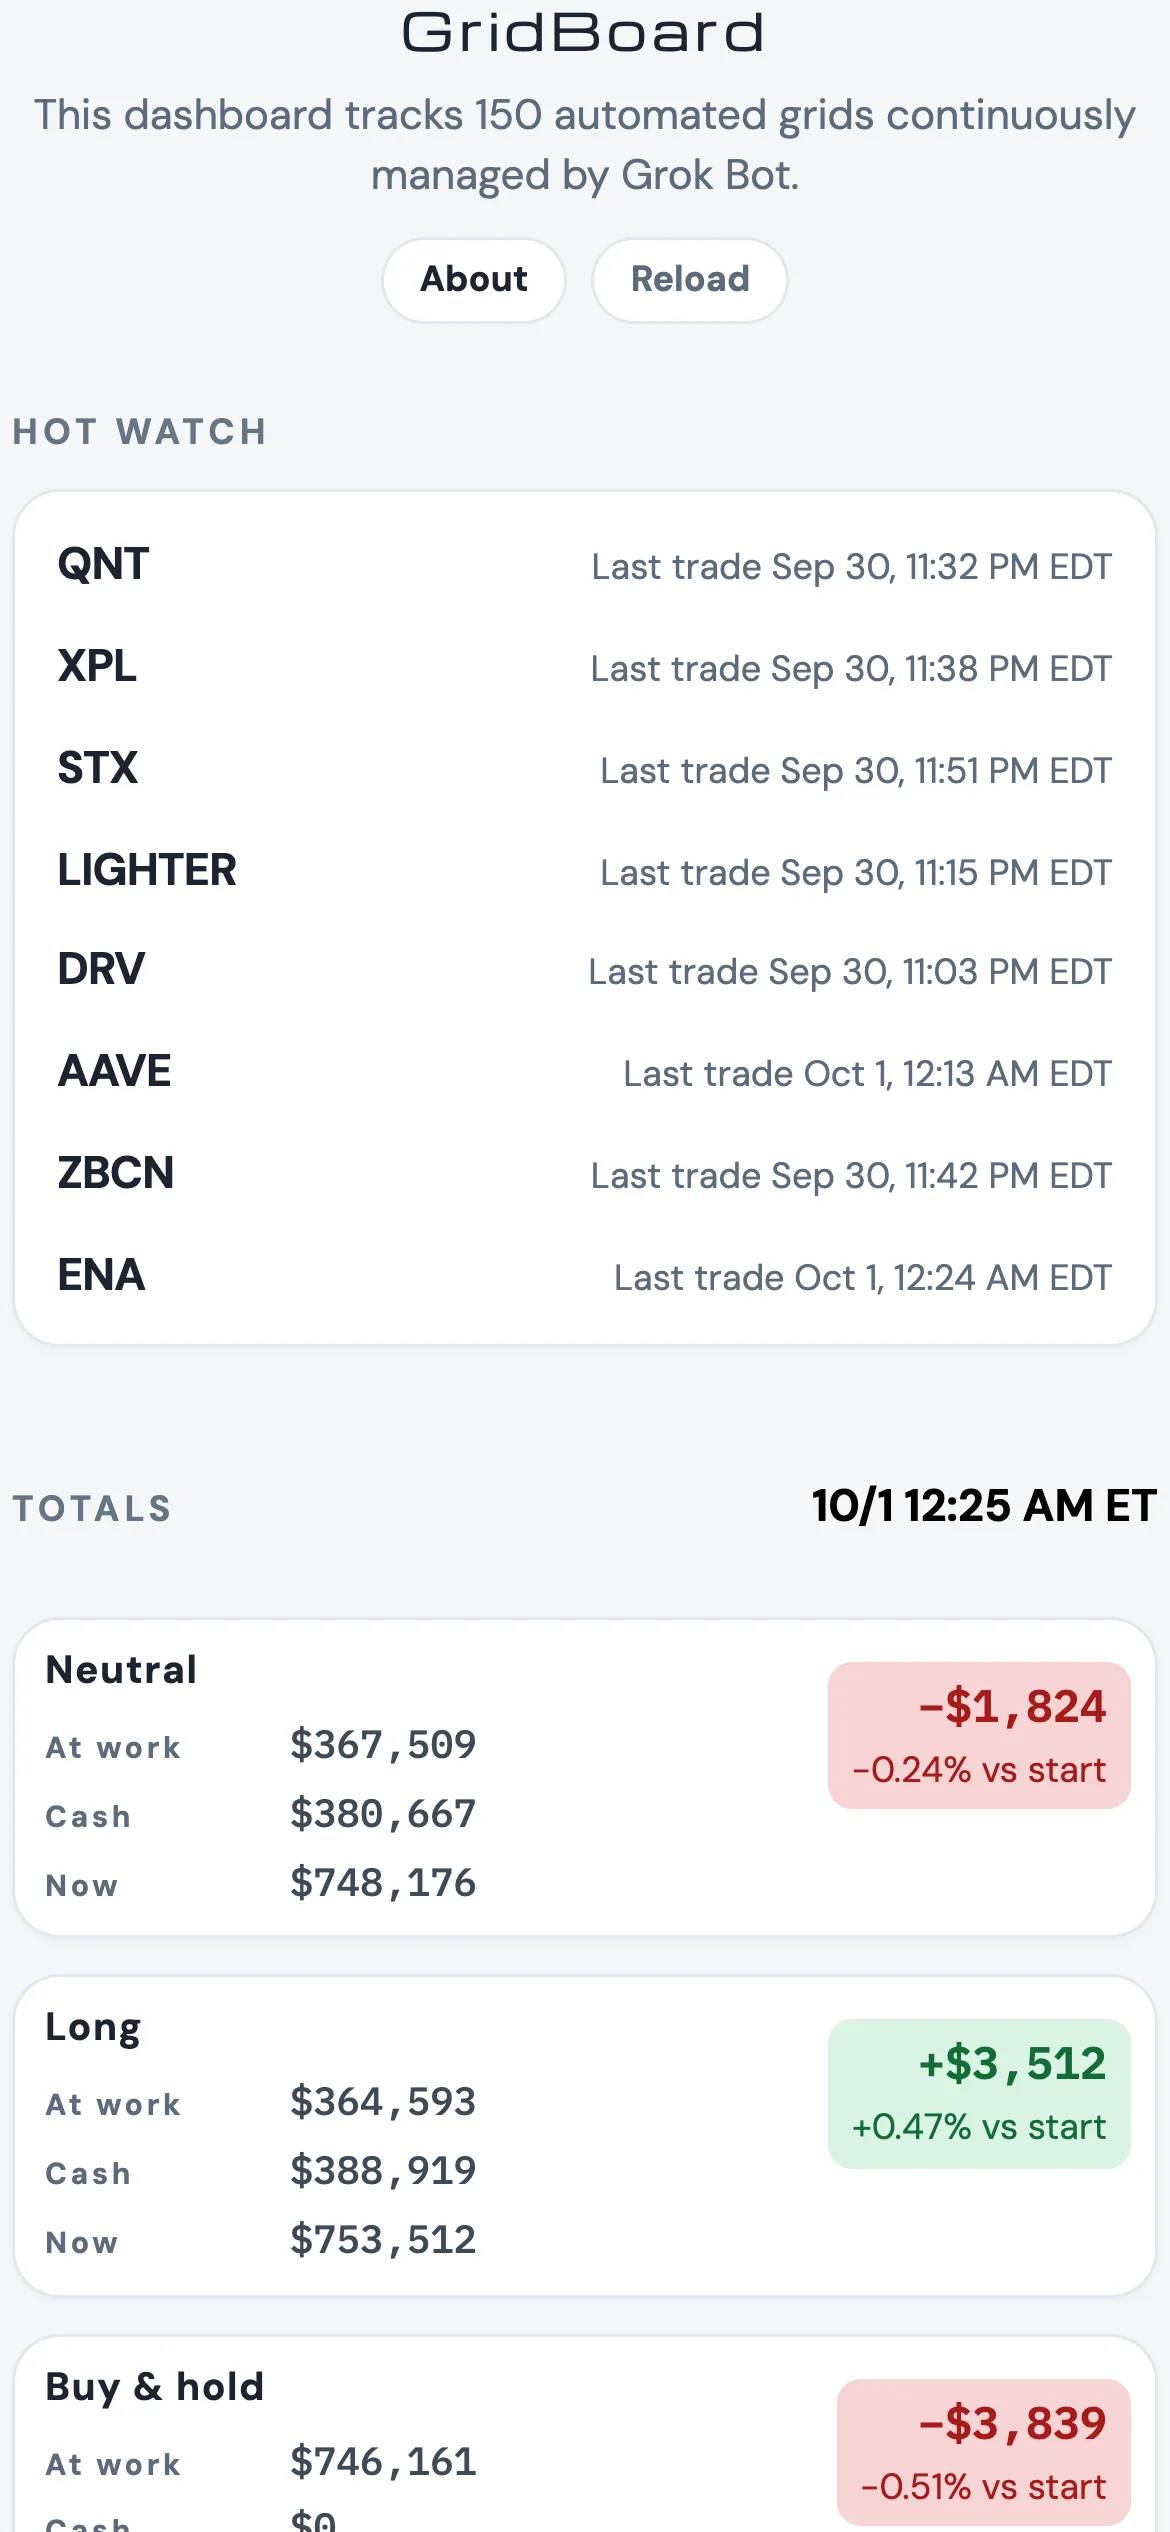
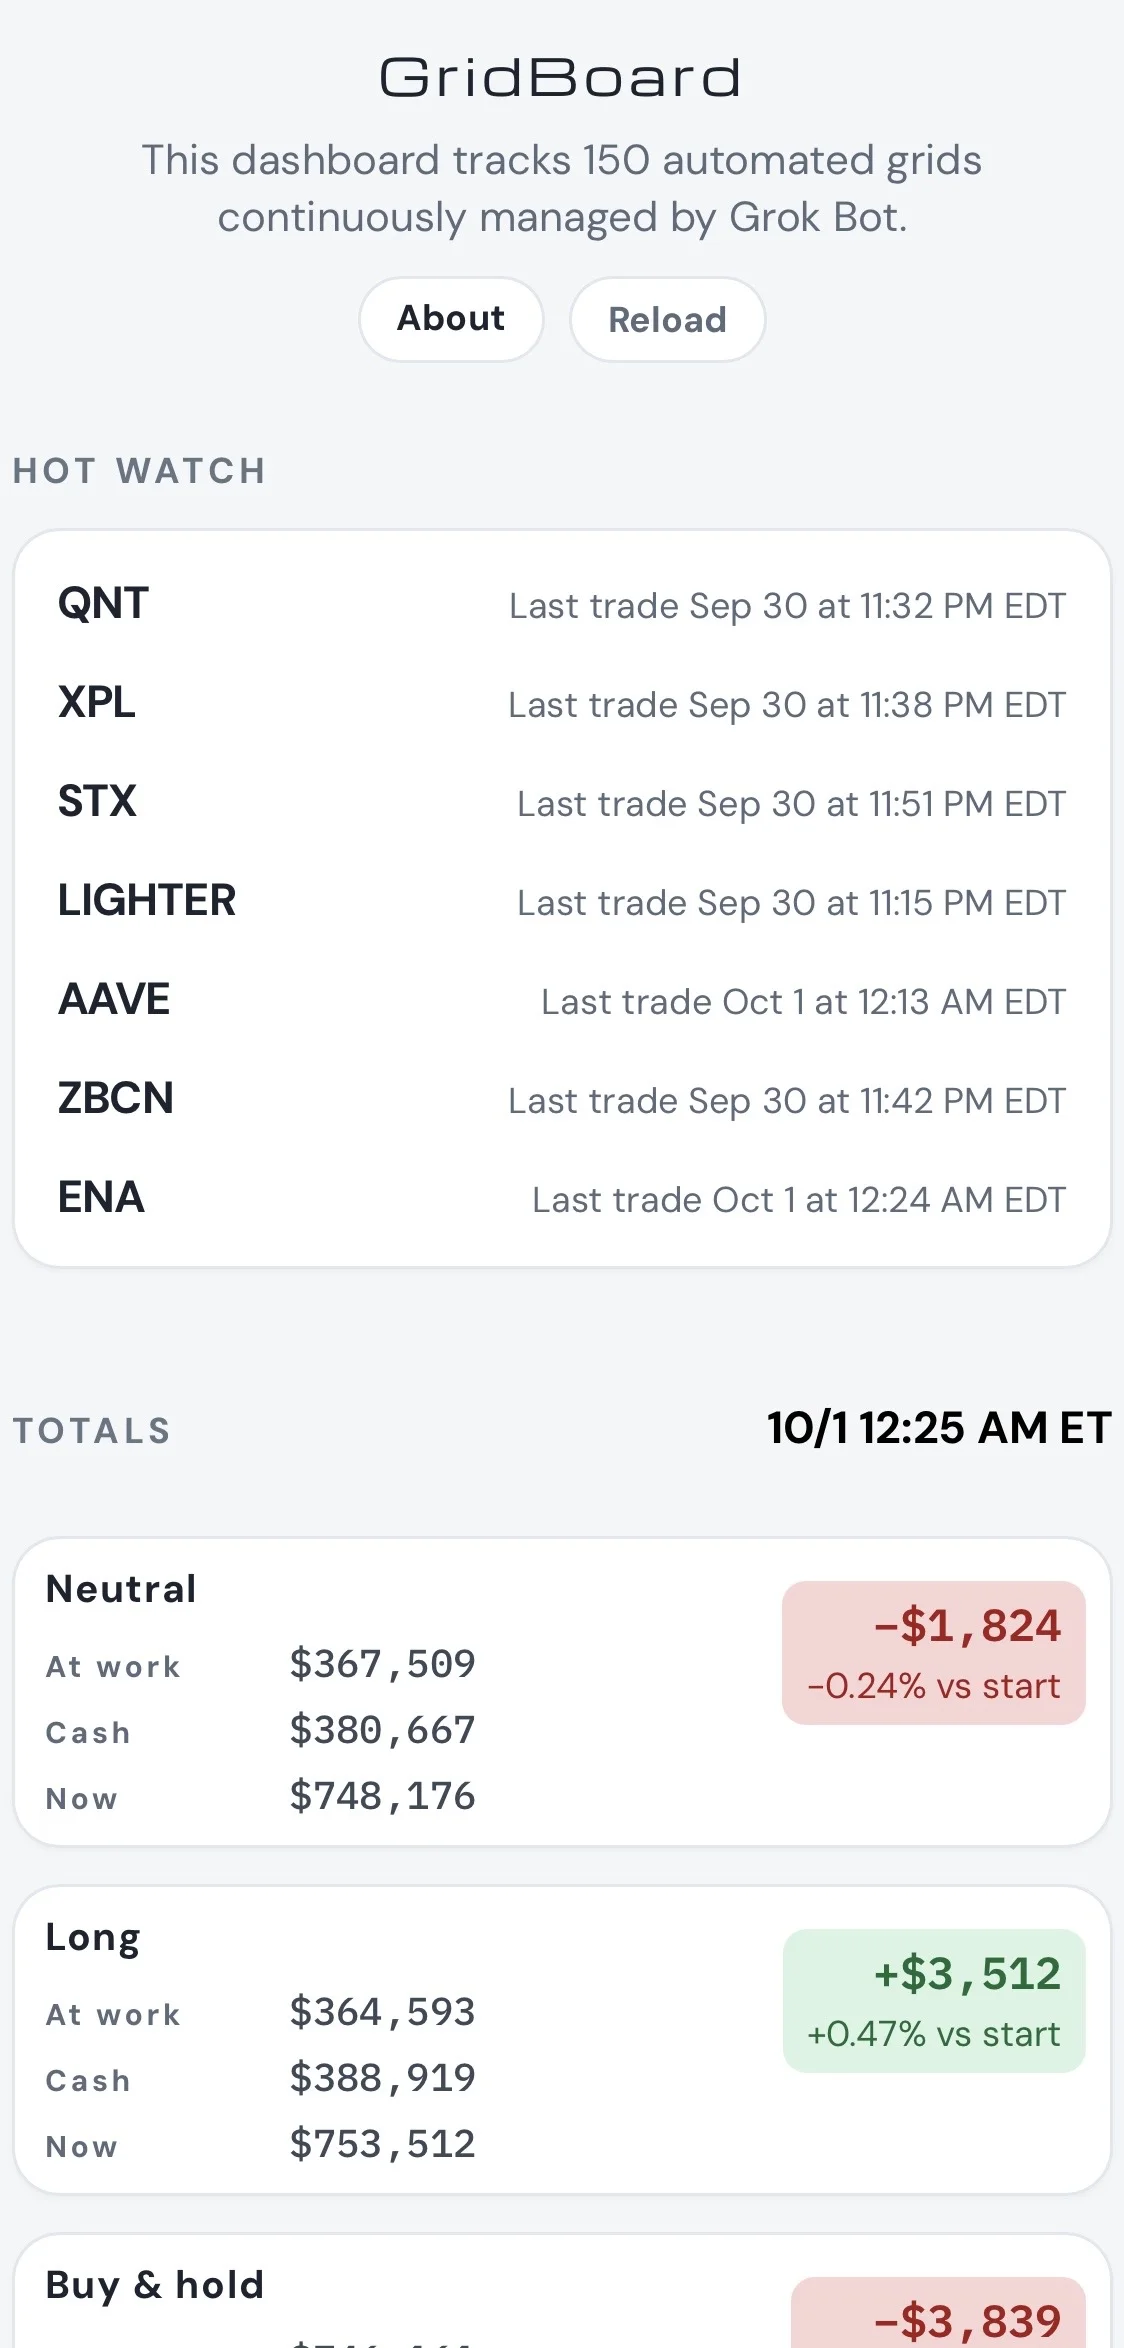
Use Mark's phone capture for the GridBoard card

diff --git a/apps.js b/apps.js
@@ -6,9 +6,9 @@ export const APPS = [
     id: "gridboard-app",
     name: "GridBoard",
     href: "https://gridboard.markmaga.com",
-    img: "images/ss-gridboard.webp",
-    imgW: 1170,
-    imgH: 2532,
+    img: "images/ss-gridboard.webp?v=2",
+    imgW: 1124,
+    imgH: 2348,
     hint: "150 paper grids on 75 Kraken pairs · Neutral vs Long vs buy & hold",
   },
   {
